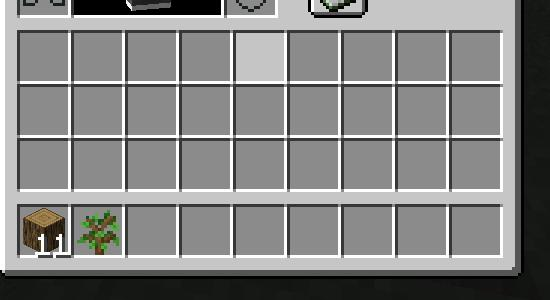
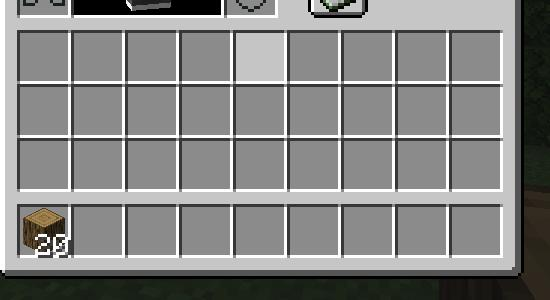
added crafting_table minor fixes

Changed region(s): [[0.0618, 0.69, 0.2164, 0.87], [0.9273, 0.63, 1.0, 0.81], [0.9273, 0.84, 1.0, 1.0]]

diff --git a/src/Crafter.java b/src/Crafter.java
@@ -6,21 +6,135 @@ import java.io.*;
 
 public class Crafter {
 
-    public void craft(String item) throws AWTException, InterruptedException, IOException {
+    Typer typer = new Typer();
+    MouseMover mm = new MouseMover();
+    BufferedImage screen;
+    BufferedImage img;
+    int[] coords;
+    int shortSleepTime = 40;
+    int longSleepTime = 100;
+    static int searchSpacing = 5;
+    int[] handCraftSlot1 = new int[]{1015,360};
+    int[] handCraftSlot2 = new int[]{1067,360};
+    int[] handCraftSlot3 = new int[]{1067,413};
+    int[] handCraftSlot4 = new int[]{1015,413};
+    int[] handCraftSlotRes = new int[]{1189,390};
+
+
+    public Crafter() throws AWTException {
+    }
+
+    public void craft(String item, int number) throws AWTException, InterruptedException, IOException {
         switch (item) {
             case "wooden_planks":
-                Typer typer = new Typer();
+                // Open inventory
                 typer.type("e");
-                Thread.sleep(100);
-                BufferedImage screen = screenShot();
-                BufferedImage img = getImage("C:\\Users\\chris\\IdeaProjects\\AIBeatsMinecraft\\src\\Item_Images\\Log1.JPG");
-                ImageIO.write(screen, "jpg", new File("lol.jpg"));
-                int[] coords = findSubImage(screen, img);
-                System.out.println(coords[0]);
-                System.out.println(coords[1]);
-                MouseMover mm = new MouseMover();
+                Thread.sleep(longSleepTime);
+                // Take a screenshot
+                screen = screenShot();
+                // Grab relevant image
+                img = getImage("C:\\Users\\chris\\IdeaProjects\\AIBeatsMinecraft\\src\\Item_Images\\Log1.JPG");
+                // Find image in screenshot
+                coords = findSubImage(screen, img);
+                // Pick up items
                 mm.moveMouse(coords);
+                Thread.sleep(shortSleepTime);
+                typer.leftClick();
+                Thread.sleep(shortSleepTime);
+                // Move mouse to craft
+                mm.moveMouse(handCraftSlot1);
+                Thread.sleep(shortSleepTime);
+                // Place the correct number of items
+                for(int i = 0;i<number;i++){
+                    typer.rightClick();
+                }
+                Thread.sleep(shortSleepTime);
+                // Place item back in original slot
+                mm.moveMouse(coords);
+                Thread.sleep(shortSleepTime);
+                typer.leftClick();
+                Thread.sleep(shortSleepTime);
+                // Get resultant item
+                mm.moveMouse(handCraftSlotRes);
+                Thread.sleep(shortSleepTime);
+                typer.holdShift();
+                Thread.sleep(shortSleepTime);
+                typer.leftClick();
+                typer.releaseShift();
+                Thread.sleep(shortSleepTime);
+                // Close inventory
+                typer.type("e");
+                Thread.sleep(longSleepTime);
+                break;
 
+
+
+
+            case "crafting_table":
+                // Open inventory
+                typer.type("e");
+                Thread.sleep(longSleepTime);
+                // Take a screenshot
+                screen = screenShot();
+                // Grab relevant image
+                img = getImage("C:\\Users\\chris\\IdeaProjects\\AIBeatsMinecraft\\src\\Item_Images\\Wood1.JPG");
+                // Find image in screenshot
+                coords = findSubImage(screen, img);
+                // Pick up items
+                mm.moveMouse(coords);
+                Thread.sleep(shortSleepTime);
+                typer.leftClick();
+                Thread.sleep(shortSleepTime);
+
+                // Move mouse to craft
+                mm.moveMouse(handCraftSlot1);
+                Thread.sleep(shortSleepTime);
+                // Place the correct number of items
+                for(int i = 0;i<number;i++){
+                    typer.rightClick();
+                }
+                Thread.sleep(shortSleepTime);
+                // Move mouse to craft
+                mm.moveMouse(handCraftSlot2);
+                Thread.sleep(shortSleepTime);
+                // Place the correct number of items
+                for(int i = 0;i<number;i++){
+                    typer.rightClick();
+                }
+                Thread.sleep(shortSleepTime);
+                // Move mouse to craft
+                mm.moveMouse(handCraftSlot3);
+                Thread.sleep(shortSleepTime);
+                // Place the correct number of items
+                for(int i = 0;i<number;i++){
+                    typer.rightClick();
+                }
+                Thread.sleep(shortSleepTime);
+                // Move mouse to craft
+                mm.moveMouse(handCraftSlot4);
+                Thread.sleep(shortSleepTime);
+                // Place the correct number of items
+                for(int i = 0;i<number;i++){
+                    typer.rightClick();
+                }
+                Thread.sleep(shortSleepTime);
+
+                // Place item back in original slot
+                mm.moveMouse(coords);
+                Thread.sleep(shortSleepTime);
+                typer.leftClick();
+                Thread.sleep(shortSleepTime);
+                // Get resultant item
+                mm.moveMouse(handCraftSlotRes);
+                Thread.sleep(shortSleepTime);
+                typer.holdShift();
+                Thread.sleep(shortSleepTime);
+                typer.leftClick();
+                typer.releaseShift();
+                Thread.sleep(shortSleepTime);
+                // Close inventory
+                typer.type("e");
+                Thread.sleep(longSleepTime);
                 break;
         }
     }
@@ -58,8 +172,8 @@ public class Crafter {
         int bestY = 0;
         double lowestDiff = Double.POSITIVE_INFINITY;
         // brute-force search through whole image (slow...)
-        for (int x = 0; x < w1 - w2; x++) {
-            for (int y = 0; y < h1 - h2; y++) {
+        for (int x = 0; x < w1 - w2; x=x+searchSpacing) {
+            for (int y = 0; y < h1 - h2; y=y+searchSpacing) {
                 double comp = compareImages(im1.getSubimage(x, y, w2, h2), im2);
                 if (comp < lowestDiff) {
                     bestX = x;
@@ -69,7 +183,7 @@ public class Crafter {
             }
         }
         // output similarity measure from 0 to 1, with 0 being identical
-        System.out.println(lowestDiff);
+        //System.out.println(lowestDiff);
         // return best location
         return new int[]{bestX+700, bestY+500};
     }

diff --git a/src/Typer.java b/src/Typer.java
@@ -1,16 +1,42 @@
 import java.awt.*;
+import java.awt.event.InputEvent;
 import java.awt.event.KeyEvent;
+import java.awt.event.MouseEvent;
+
 
 public class Typer {
 
+    Robot robot = new Robot();
+
+    public Typer() throws AWTException {
+    }
+
     public void type(String text) throws InterruptedException, AWTException {
-        Robot robot = new Robot();
         for(int i = 0; i < text.length(); i++){
             Thread.sleep(2);
             pressKey(robot, text.charAt(i));
         }
     }
-    private void pressKey(Robot robot, char c){
+
+    public void leftClick(){
+        robot.mousePress(InputEvent.BUTTON1_DOWN_MASK);
+        robot.mouseRelease(InputEvent.BUTTON1_DOWN_MASK);
+    }
+
+    public void rightClick(){
+        robot.mousePress(InputEvent.BUTTON3_DOWN_MASK);
+        robot.mouseRelease(InputEvent.BUTTON3_DOWN_MASK);
+    }
+
+    public void holdShift(){
+        robot.keyPress(KeyEvent.VK_SHIFT);
+    }
+
+    public void releaseShift(){
+        robot.keyRelease(KeyEvent.VK_SHIFT);
+    }
+
+    public void pressKey(Robot robot, char c){
         switch(c) {
             case 'a':
                 robot.keyPress(KeyEvent.VK_A);

diff --git a/src/MouseMover.java b/src/MouseMover.java
@@ -1,8 +1,16 @@
 import java.awt.*;
 
 public class MouseMover {
+    Robot robot = new Robot();
+
+    public MouseMover() throws AWTException {
+    }
+
     public void moveMouse(int[] coords) throws AWTException {
-        Robot robot = new Robot();
         robot.mouseMove(coords[0], coords[1]);
+    }
+
+    public void moveMouse(int x, int y) {
+        robot.mouseMove(x, y);
     }
 }

diff --git a/src/Main.java b/src/Main.java
@@ -10,6 +10,8 @@ public class Main {
         //typer.type("hello");
         Thread.sleep(5000);
         Crafter crafter = new Crafter();
-        crafter.craft("wooden_planks");
+        crafter.craft("wooden_planks", 4);
+        Thread.sleep(50);
+        crafter.craft("crafting_table", 4);
     }
 }
